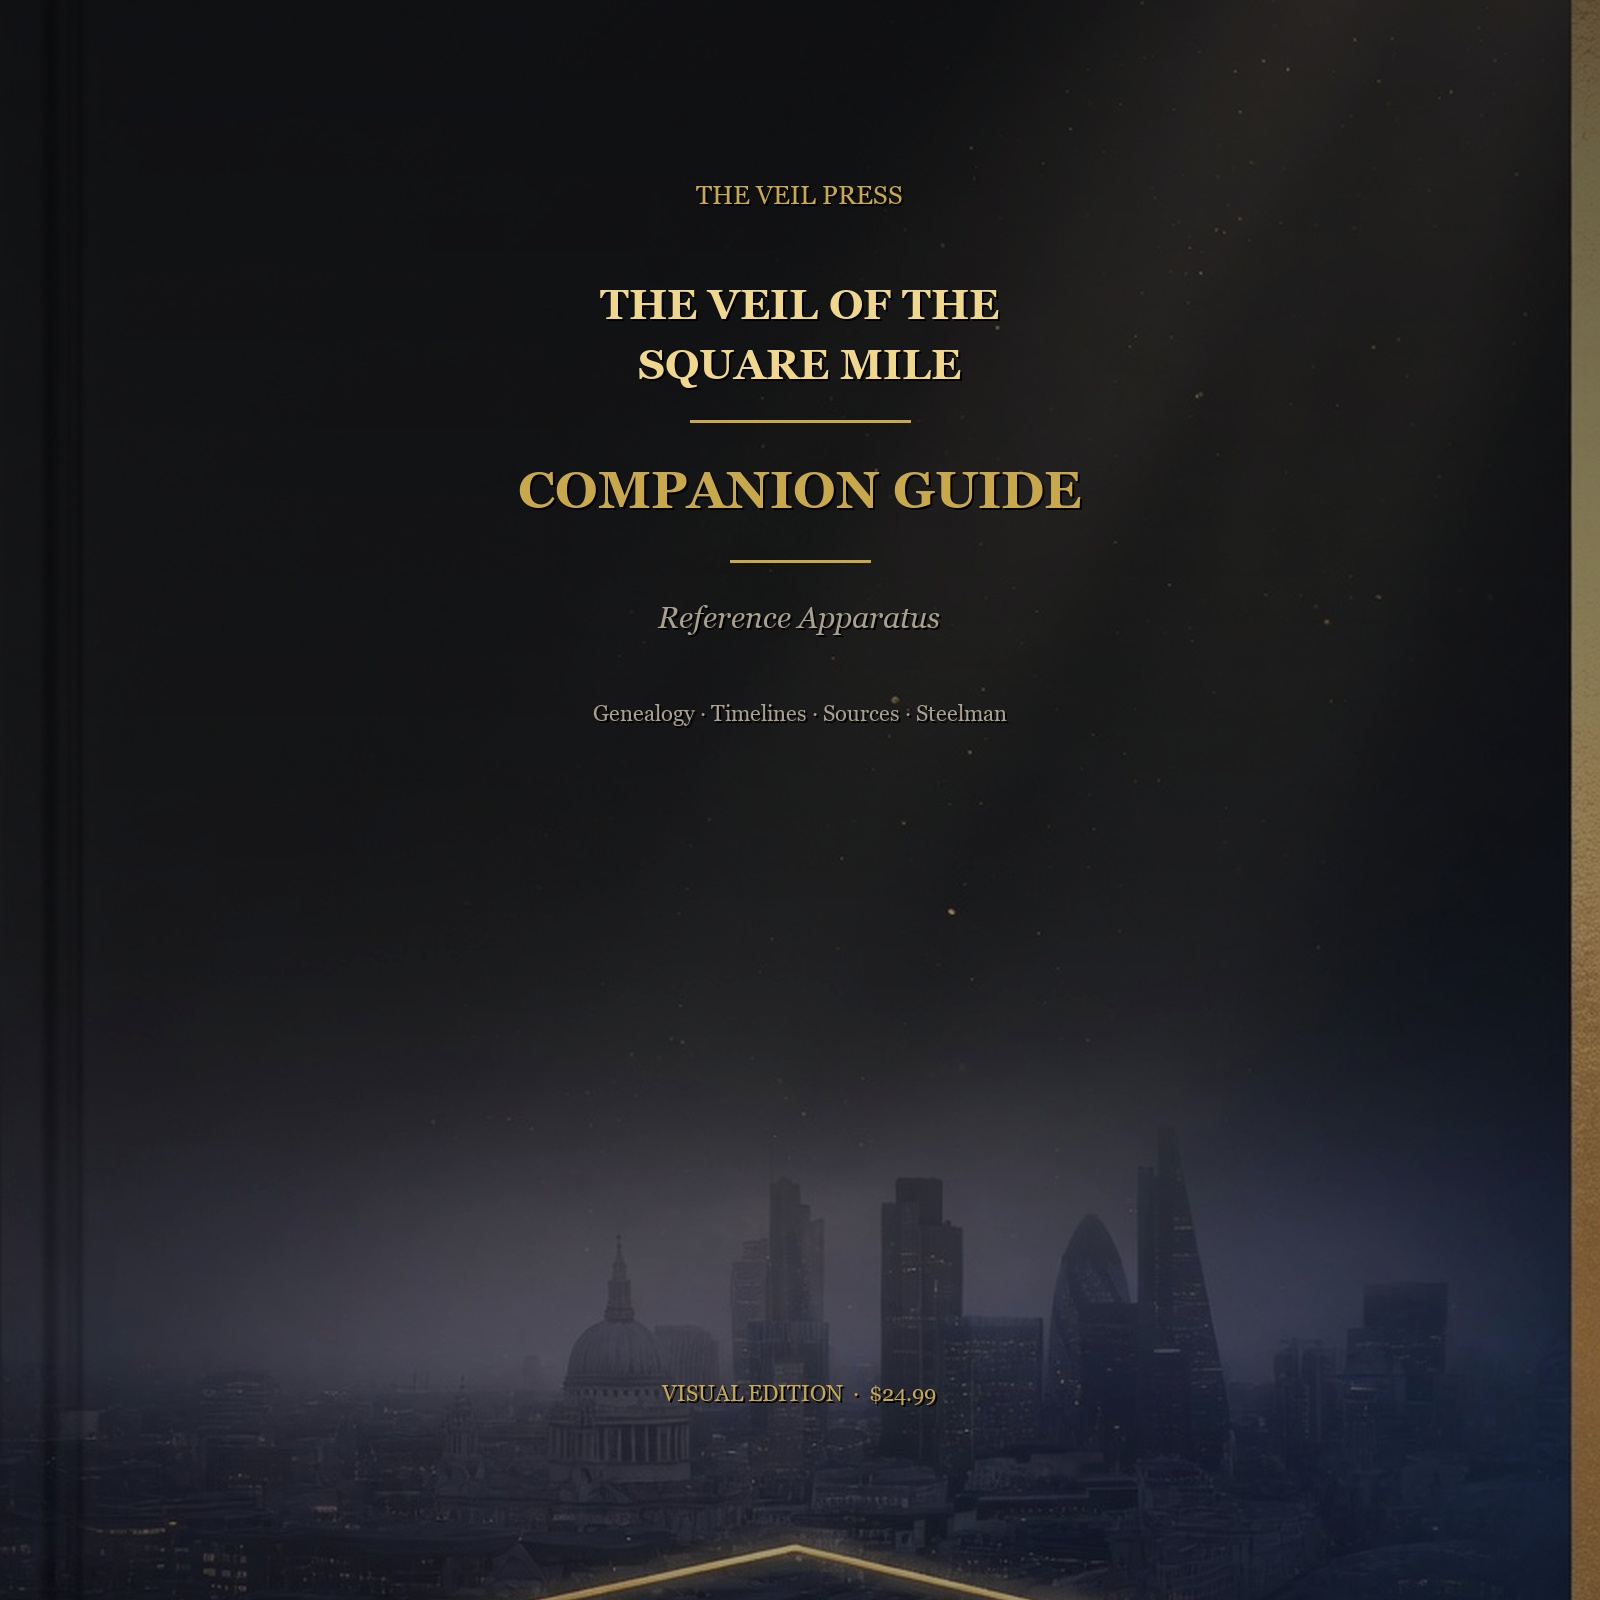
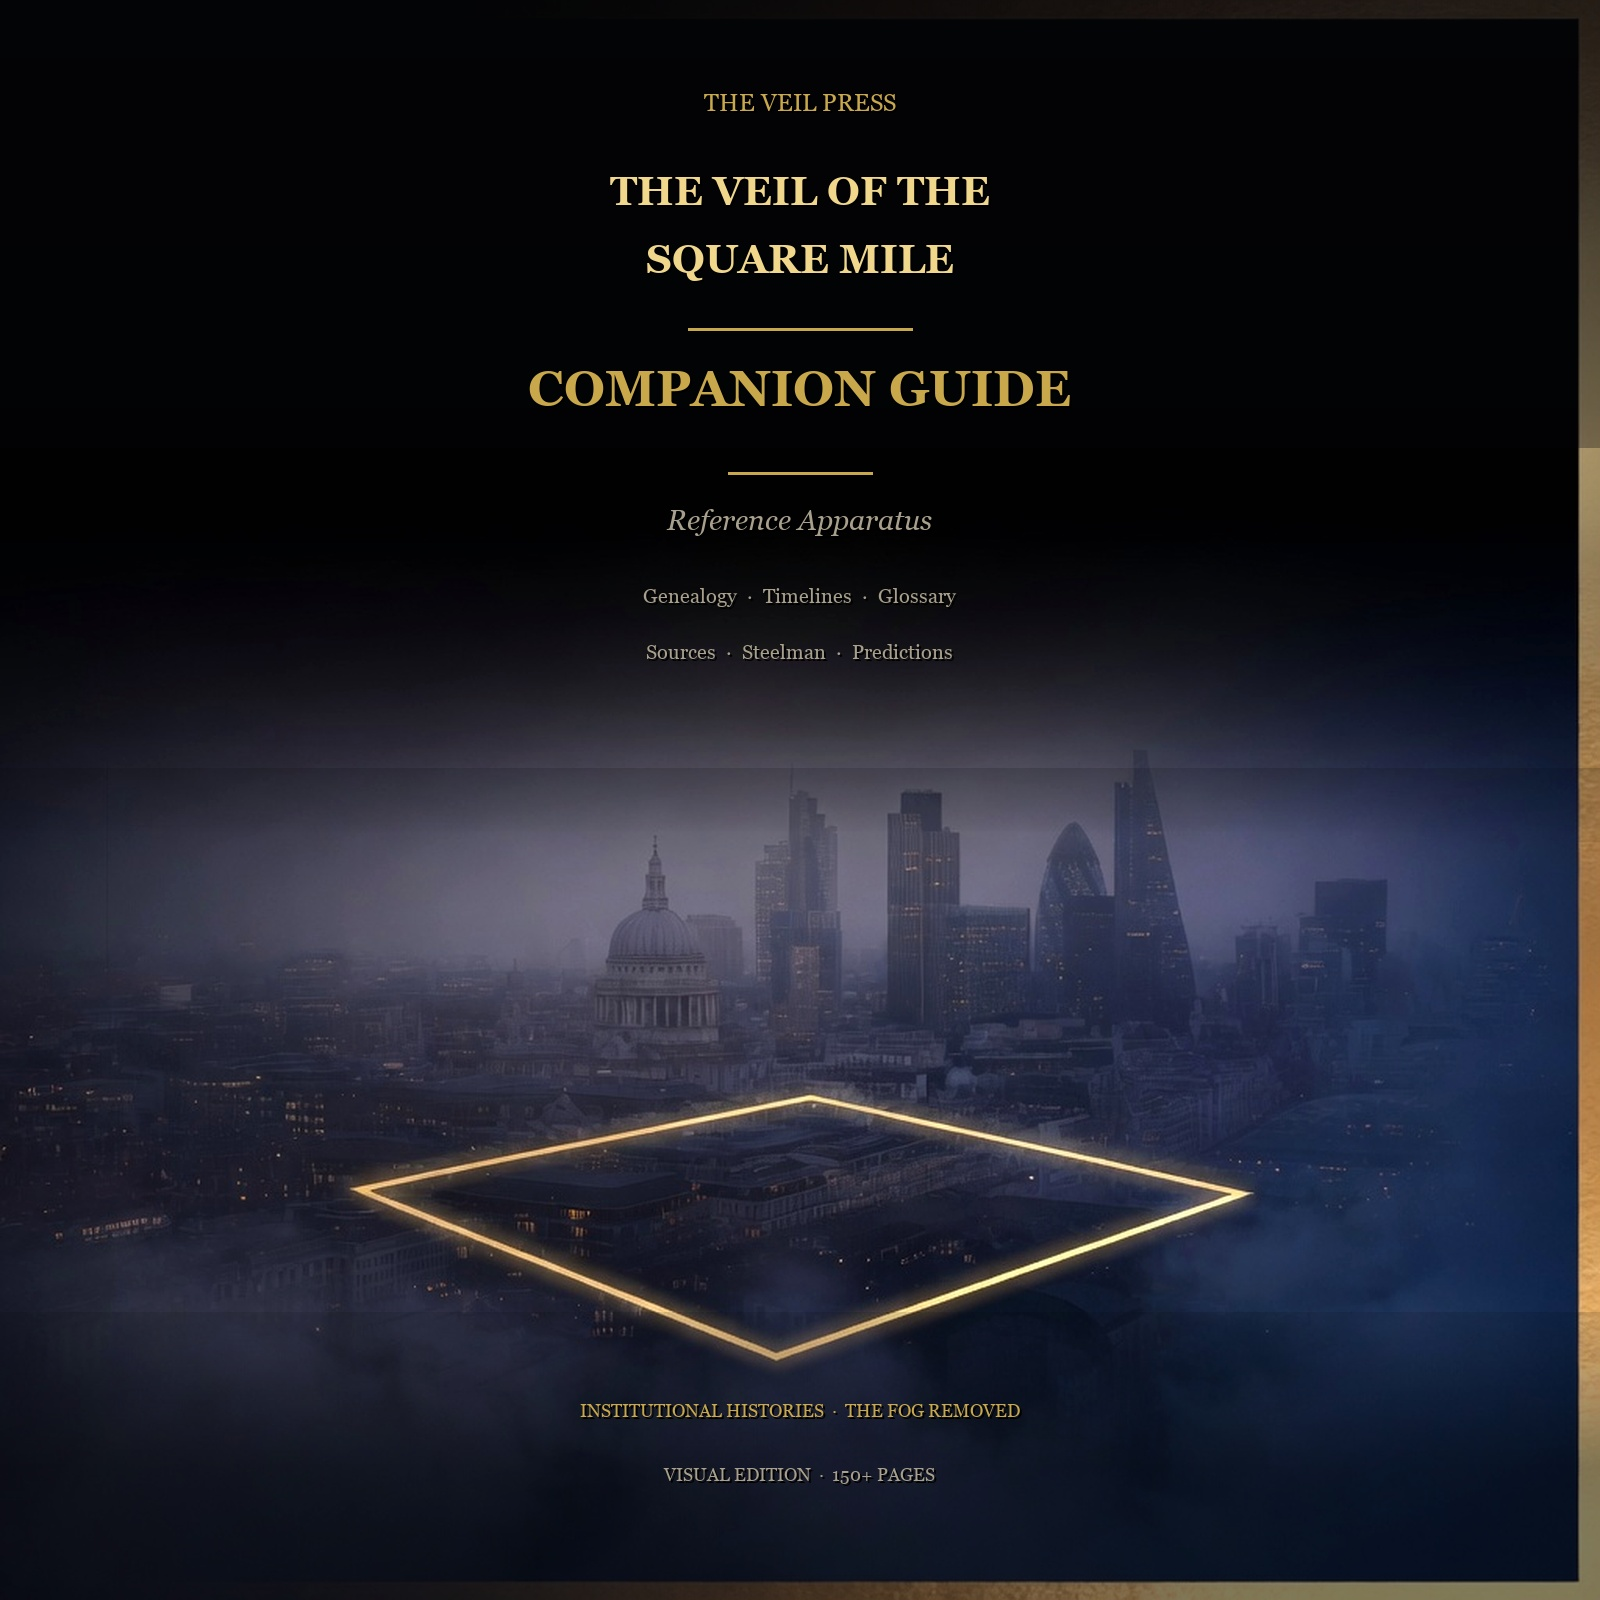
Add Hardcover + Companion physical bundle to storefront.
New presale SKU at $104.99 + $15 shipping (Gumroad total $119.99, l/qhzsbx), listed on Square Mile and Presale pages with matching product imagery.

diff --git a/src/commerce.js b/src/commerce.js
@@ -6,18 +6,21 @@
  *
  * PRESALE (order now through 26 August 2026):
  *   Softcover, Hardcover, Companion Guide hardcover,
+ *   Hardcover + Companion Guide bundle,
  *   Founders Edition, Limited Founders Edition.
  *
  * COMING August 26, 2026 (not for sale yet):
  *   All digital SKUs (ebook, audiobook, digital-only bundles).
  *   Limited Founders still includes digital as part of that package.
  *
- * Live catalog (Gumroad checkout totals; soft/hard bake in $5 ship, companion $10):
+ * Live catalog (Gumroad checkout totals; soft/hard bake in $5 ship, companion $10,
+ * hardcover+companion bundle bakes in $15 ship):
  *   Softcover .............. $39.99 + $5 ship = $44.99  l/jiytnb  ← PRESALE
  *   Hardcover .............. $46.99 + $5 ship = $51.99  l/pntwl   ← PRESALE
  *   Digital Edition ........ $15.99  l/riwlqv  ← COMING Aug 26
  *   Audiobook .............. $17.99  l/rphkx   ← COMING Aug 26
  *   Companion hardcover .... $59.99 + $10 ship = $69.99  l/jawnaq  ← PRESALE
+ *   Hardcover + Companion .. $104.99 + $15 ship = $119.99  l/qhzsbx  ← PRESALE
  *   Founders Edition ....... $64.99  l/jnnnft  ← PRESALE
  *   Limited Founders ....... $129.99 l/uehrv   ← PRESALE (free ship)
  *   Digital + Companion .... $34.99  l/tkfupm  ← COMING Aug 26
@@ -44,7 +47,7 @@ export function isPresaleActive(now = new Date()) {
 }
 
 export const PRESALE_BANNER =
-  "Softcover, hardcover, Companion Guide, and Founders editions on presale through August 26, 2026. Digital formats: Coming August 26th.";
+  "Softcover, hardcover, Companion Guide, Hardcover + Companion bundle, and Founders editions on presale through August 26, 2026. Digital formats: Coming August 26th.";
 
 /**
  * saleStatus:
@@ -83,16 +86,20 @@ export function formatPrice(n) {
   return `$${n.toFixed(2)}`;
 }
 
-/** Flat shipping added at Gumroad for softcover, hardcover. Companion uses $10. */
+/** Flat shipping added at Gumroad for softcover, hardcover. Companion uses $10. Bundle uses $15. */
 export const SHIPPING_FEE = 5;
 export const COMPANION_SHIPPING_FEE = 10;
+/** Hardcover + Companion Guide physical bundle shipping (baked into Gumroad $119.99). */
+export const HARDCOVER_BUNDLE_SHIPPING_FEE = 15;
 export const SHIPPING_NOTE = "Plus $5 shipping";
 export const COMPANION_SHIPPING_NOTE = "Plus $10 shipping";
+export const HARDCOVER_BUNDLE_SHIPPING_NOTE = "Plus $15 shipping";
 export const FREE_SHIPPING_NOTE = "Free shipping";
 
 /**
  * Site display prices (product only).
  * Softcover / hardcover / Companion: Gumroad checkout = price + SHIPPING_FEE.
+ * Hardcover + Companion bundle: Gumroad = $104.99 + $15 ship = $119.99.
  */
 export const STANDALONE = {
   softcover: 39.99,
@@ -104,6 +111,11 @@ export const STANDALONE = {
   /** Companion Guide hardcover (live SKU — $59.99 product + $10 shipping = $69.99 Gumroad) */
   companion: 59.99,
   companionHardcover: 59.99,
+  /**
+   * Hardcover book + Companion hardcover (physical set only).
+   * Site: $104.99 + $15 shipping. Gumroad checkout total: $119.99.
+   */
+  hardcoverCompanionBundle: 104.99,
   foundersSignedHardcover: 64.99,
   limitedFounders: 129.99,
 };
@@ -114,6 +126,9 @@ export const GUMROAD_CHECKOUT_TOTAL = {
   hardcover: money(STANDALONE.hardcover + SHIPPING_FEE), // 51.99
   companion: money(STANDALONE.companion + COMPANION_SHIPPING_FEE), // 69.99
   companionHardcover: money(STANDALONE.companionHardcover + COMPANION_SHIPPING_FEE), // 69.99
+  hardcoverCompanionBundle: money(
+    STANDALONE.hardcoverCompanionBundle + HARDCOVER_BUNDLE_SHIPPING_FEE
+  ), // 119.99
   foundersSignedHardcover: STANDALONE.foundersSignedHardcover,
   limitedFounders: STANDALONE.limitedFounders,
   ebook: STANDALONE.ebook,
@@ -129,6 +144,8 @@ export const GUMROAD = {
   companionHardcover: "https://shop.theveilpress.com/l/jawnaq",
   /** Alias used by products.companion */
   companion: "https://shop.theveilpress.com/l/jawnaq",
+  /** Hardcover + Companion Guide physical bundle ($119.99 total on Gumroad). */
+  hardcoverCompanionBundle: "https://shop.theveilpress.com/l/qhzsbx",
   foundersEdition: "https://shop.theveilpress.com/l/jnnnft",
   limitedFounders: "https://shop.theveilpress.com/l/uehrv",
   bundleEbookCompanion: "https://shop.theveilpress.com/l/tkfupm",
@@ -150,6 +167,7 @@ const prices = {
   audiobook: STANDALONE.audiobook,
   companion: STANDALONE.companion,
   companionHardcover: STANDALONE.companionHardcover,
+  hardcoverCompanionBundle: STANDALONE.hardcoverCompanionBundle,
   foundersEdition: STANDALONE.foundersSignedHardcover,
   limitedFounders: STANDALONE.limitedFounders,
   bundleEbookCompanion: 34.99,
@@ -290,6 +308,20 @@ export const products = {
     checkout: "external",
     saleStatus: "presale",
   },
+  /**
+   * Complete physical set: main book hardcover + Companion hardcover.
+   * Site shows $104.99 + $15 shipping; Gumroad charges $119.99.
+   */
+  hardcoverCompanionBundle: {
+    name: "Hardcover + Companion Guide",
+    price: prices.hardcoverCompanionBundle,
+    label: `Pre-order Hardcover Bundle · ${formatPrice(prices.hardcoverCompanionBundle)}`,
+    url: GUMROAD.hardcoverCompanionBundle,
+    blurb: `Presale through ${PRESALE_ENDS_LABEL}. The complete physical set — premium hardcover of The Veil of the Square Mile plus matching Companion Guide hardcover (The Map). ${HARDCOVER_BUNDLE_SHIPPING_NOTE}. Gumroad total ${formatPrice(GUMROAD_CHECKOUT_TOTAL.hardcoverCompanionBundle)}.`,
+    shippingNote: HARDCOVER_BUNDLE_SHIPPING_NOTE,
+    checkout: "external",
+    saleStatus: "presale",
+  },
   foundersEdition: {
     name: "Founders Edition",
     price: prices.foundersEdition,
@@ -397,6 +429,7 @@ export const PRESALE_LIST = {
   softcover: STANDALONE.softcover,
   hardcover: STANDALONE.hardcover,
   companionHardcover: STANDALONE.companionHardcover,
+  hardcoverCompanionBundle: STANDALONE.hardcoverCompanionBundle,
   foundersSignedHardcover: STANDALONE.foundersSignedHardcover,
   ebook: STANDALONE.ebook,
   audiobook: STANDALONE.audiobook,
@@ -479,6 +512,14 @@ export const PRESALE = {
     url: GUMROAD.companionHardcover,
     blurb: `Presale through ${PRESALE_ENDS_LABEL}. ${COMPANION_SHIPPING_NOTE}. Also included (signed) in Limited Founders.`,
     shippingNote: COMPANION_SHIPPING_NOTE,
+    saleStatus: "presale",
+  },
+  hardcoverCompanionBundle: {
+    name: "Hardcover + Companion Guide",
+    price: PRESALE_LIST.hardcoverCompanionBundle,
+    url: GUMROAD.hardcoverCompanionBundle,
+    blurb: `Presale through ${PRESALE_ENDS_LABEL}. Complete physical set — main book hardcover + Companion Guide hardcover. ${HARDCOVER_BUNDLE_SHIPPING_NOTE} (Gumroad total ${formatPrice(GUMROAD_CHECKOUT_TOTAL.hardcoverCompanionBundle)}).`,
+    shippingNote: HARDCOVER_BUNDLE_SHIPPING_NOTE,
     saleStatus: "presale",
   },
   foundersPack: {
@@ -571,6 +612,7 @@ const commerce = {
   get bundles() {
     return {
       printCompanion: products.bundlePrintCompanion,
+      hardcoverCompanion: products.hardcoverCompanionBundle,
       ebookCompanion: products.bundleEbookCompanion,
       audioCompanion: products.bundleAudioCompanion,
       ebookAudio: products.bundleEbookAudio,

diff --git a/src/views/Presale.jsx b/src/views/Presale.jsx
@@ -13,11 +13,16 @@ import { easeOut } from "../motion";
 
 const HeroScene = lazy(() => import("../components/HeroScene"));
 
-/** Print, Companion hardcover, and both Founders are buyable now. */
+/** Print, Companion hardcover, physical bundle, and both Founders are buyable now. */
 const presaleItems = [
   { ...PRESALE.softcover, badge: "Presale" },
   { ...PRESALE.hardcover, badge: "Presale" },
   { ...PRESALE.companionHardcover, badge: "Companion · Presale" },
+  {
+    ...PRESALE.hardcoverCompanionBundle,
+    badge: "Physical set · Presale",
+    featured: true,
+  },
   { ...PRESALE.foundersPack, badge: "Founders Edition", featured: true },
   { ...PRESALE.executiveFounderPack, badge: "Limited Founders", featured: true, dedicated: true },
 ];
@@ -97,9 +102,9 @@ export default function Presale() {
           <div className="section-head">
             <h2>Pre-order now</h2>
             <p className="muted" style={{ margin: "0.5rem 0 0", maxWidth: "36rem" }}>
-              Softcover, hardcover, Companion Guide, and both Founders editions —
-              on presale through {PRESALE_ENDS_LABEL}. Digital formats:{" "}
-              {COMING_LABEL}.
+              Softcover, hardcover, Companion Guide, Hardcover + Companion
+              bundle, and both Founders editions — on presale through{" "}
+              {PRESALE_ENDS_LABEL}. Digital formats: {COMING_LABEL}.
             </p>
           </div>
         </Reveal>
@@ -178,11 +183,12 @@ export default function Presale() {
         >
           <h3 style={{ marginBottom: "0.5rem" }}>About the presale</h3>
           <p style={{ margin: "0 auto", maxWidth: "28rem" }}>
-            Softcover, hardcover, Companion Guide hardcover, Founders Edition, and
-            Limited Founders are on presale through {PRESALE_ENDS_LABEL}. Print is
-            manufactured on demand; you will be notified when your order ships.
-            Digital formats are {COMING_LABEL} — Limited Founders includes signed
-            Companion plus the full digital set now.
+            Softcover, hardcover, Companion Guide hardcover, the Hardcover +
+            Companion physical bundle, Founders Edition, and Limited Founders are
+            on presale through {PRESALE_ENDS_LABEL}. Print is manufactured on
+            demand; you will be notified when your order ships. Digital formats
+            are {COMING_LABEL} — Limited Founders includes signed Companion plus
+            the full digital set now.
           </p>
         </div>
       </Reveal>

diff --git a/src/views/SquareMile.jsx b/src/views/SquareMile.jsx
@@ -21,6 +21,7 @@ const PRESALE = [
   products.softcover,
   products.hardcover,
   products.companion,
+  products.hardcoverCompanionBundle,
   products.foundersEdition,
   products.limitedFounders,
 ];
@@ -196,8 +197,9 @@ export default function SquareMile() {
               </p>
               <h2>Pre-order</h2>
               <p className="muted" style={{ margin: "0.5rem 0 0", maxWidth: "36rem" }}>
-                Softcover, hardcover, Companion Guide, and both Founders editions
-                are on presale now. Digital formats: {COMING_LABEL}.
+                Softcover, hardcover, Companion Guide, Hardcover + Companion
+                bundle, and both Founders editions are on presale now. Digital
+                formats: {COMING_LABEL}.
               </p>
             </div>
           </div>

diff --git a/README.md b/README.md
@@ -50,9 +50,10 @@ src/commerce.js
 |--------|-----|
 | `squareMile.printUrl` | Amazon (or other) print listing |
 | `squareMile.ebookUrl` | Gumroad/Lemon PDF checkout |
-| `companion.fullUrl` | Companion standalone ~$19.99 |
-| `companion.printBuyerUrl` | Companion $5.99 (print QR path) |
-| `companion.ebookBuyerUrl` | Companion $5.99 (ebook thank-you path) |
+| `companion.fullUrl` | Companion standalone |
+| `products.hardcoverCompanionBundle` | Hardcover + Companion physical set — site $104.99 + $15 ship (Gumroad $119.99) |
+| `companion.printBuyerUrl` | Companion print-buyer path |
+| `companion.ebookBuyerUrl` | Companion ebook thank-you path |
 
 Leave a field as `""` → button shows **Coming soon / Link pending**.  
 Paste a real `https://...` URL → button goes live (opens in new tab).
